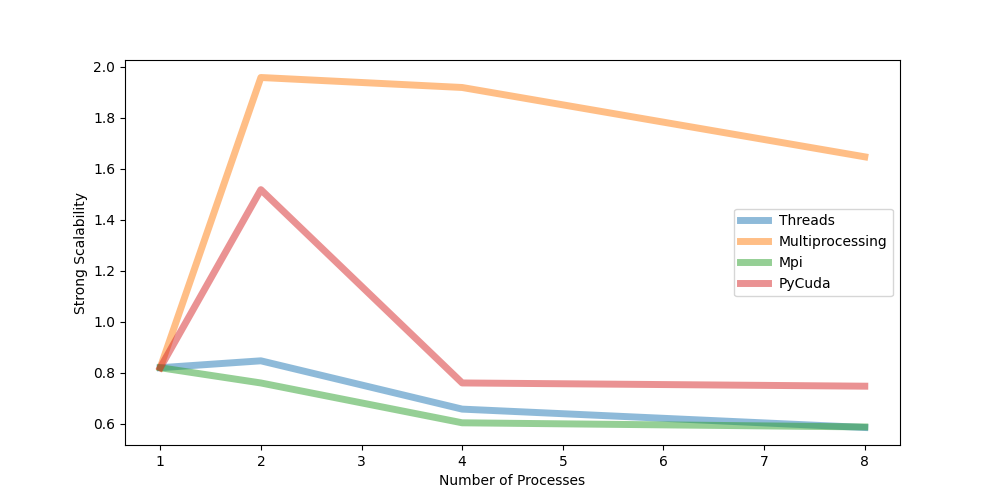
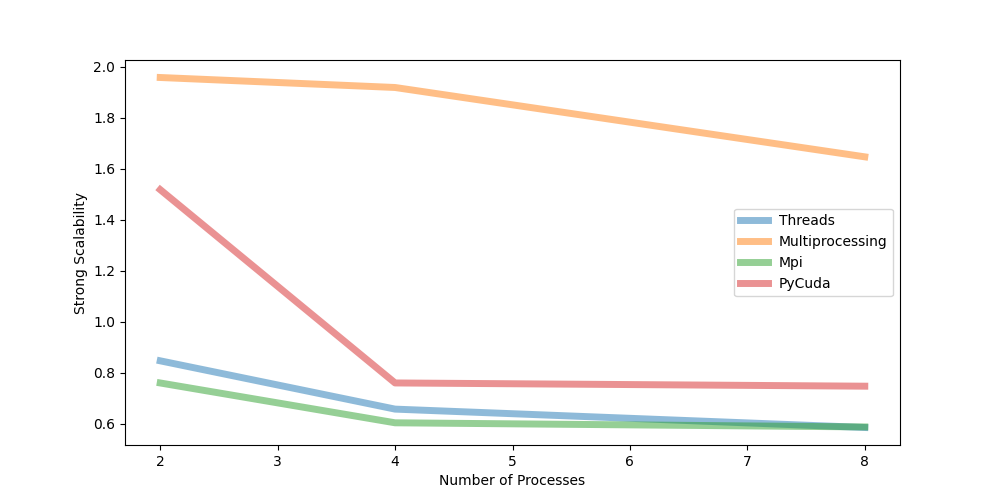
Se modificaron las graficas

diff --git a/pruebas.py b/pruebas.py
@@ -174,13 +174,13 @@ def main():
     s_scalability_mpi = [tiempo_mpi_t[i] for i in range(len(tiempo_mpi_t))]
     s_scalability_pycuda = [tiempo_pycuda_t[i] for i in range(len(tiempo_pycuda_t))]
 
-    s_scalability_t.insert(0, tiempo_secuencial_t[0])
-    s_scalability_mul.insert(0, tiempo_secuencial_t[0])
-    s_scalability_mpi.insert(0, tiempo_secuencial_t[0])
-    s_scalability_pycuda.insert(0, tiempo_secuencial_t[0])
+    # s_scalability_t.insert(0, tiempo_secuencial_t[0])
+    # s_scalability_mul.insert(0, tiempo_secuencial_t[0])
+    # s_scalability_mpi.insert(0, tiempo_secuencial_t[0])
+    # s_scalability_pycuda.insert(0, tiempo_secuencial_t[0])
 
 
-    num_processes = [1,2,4,8]
+    num_processes = [2,4,8]
     plt.title("Strong scalability vs Number of Processes")
     ax = plt.figure(figsize=(10,5)).add_subplot(111)
     ax.plot(num_processes, s_scalability_t, linewidth=5, alpha=0.5, label="Threads")
